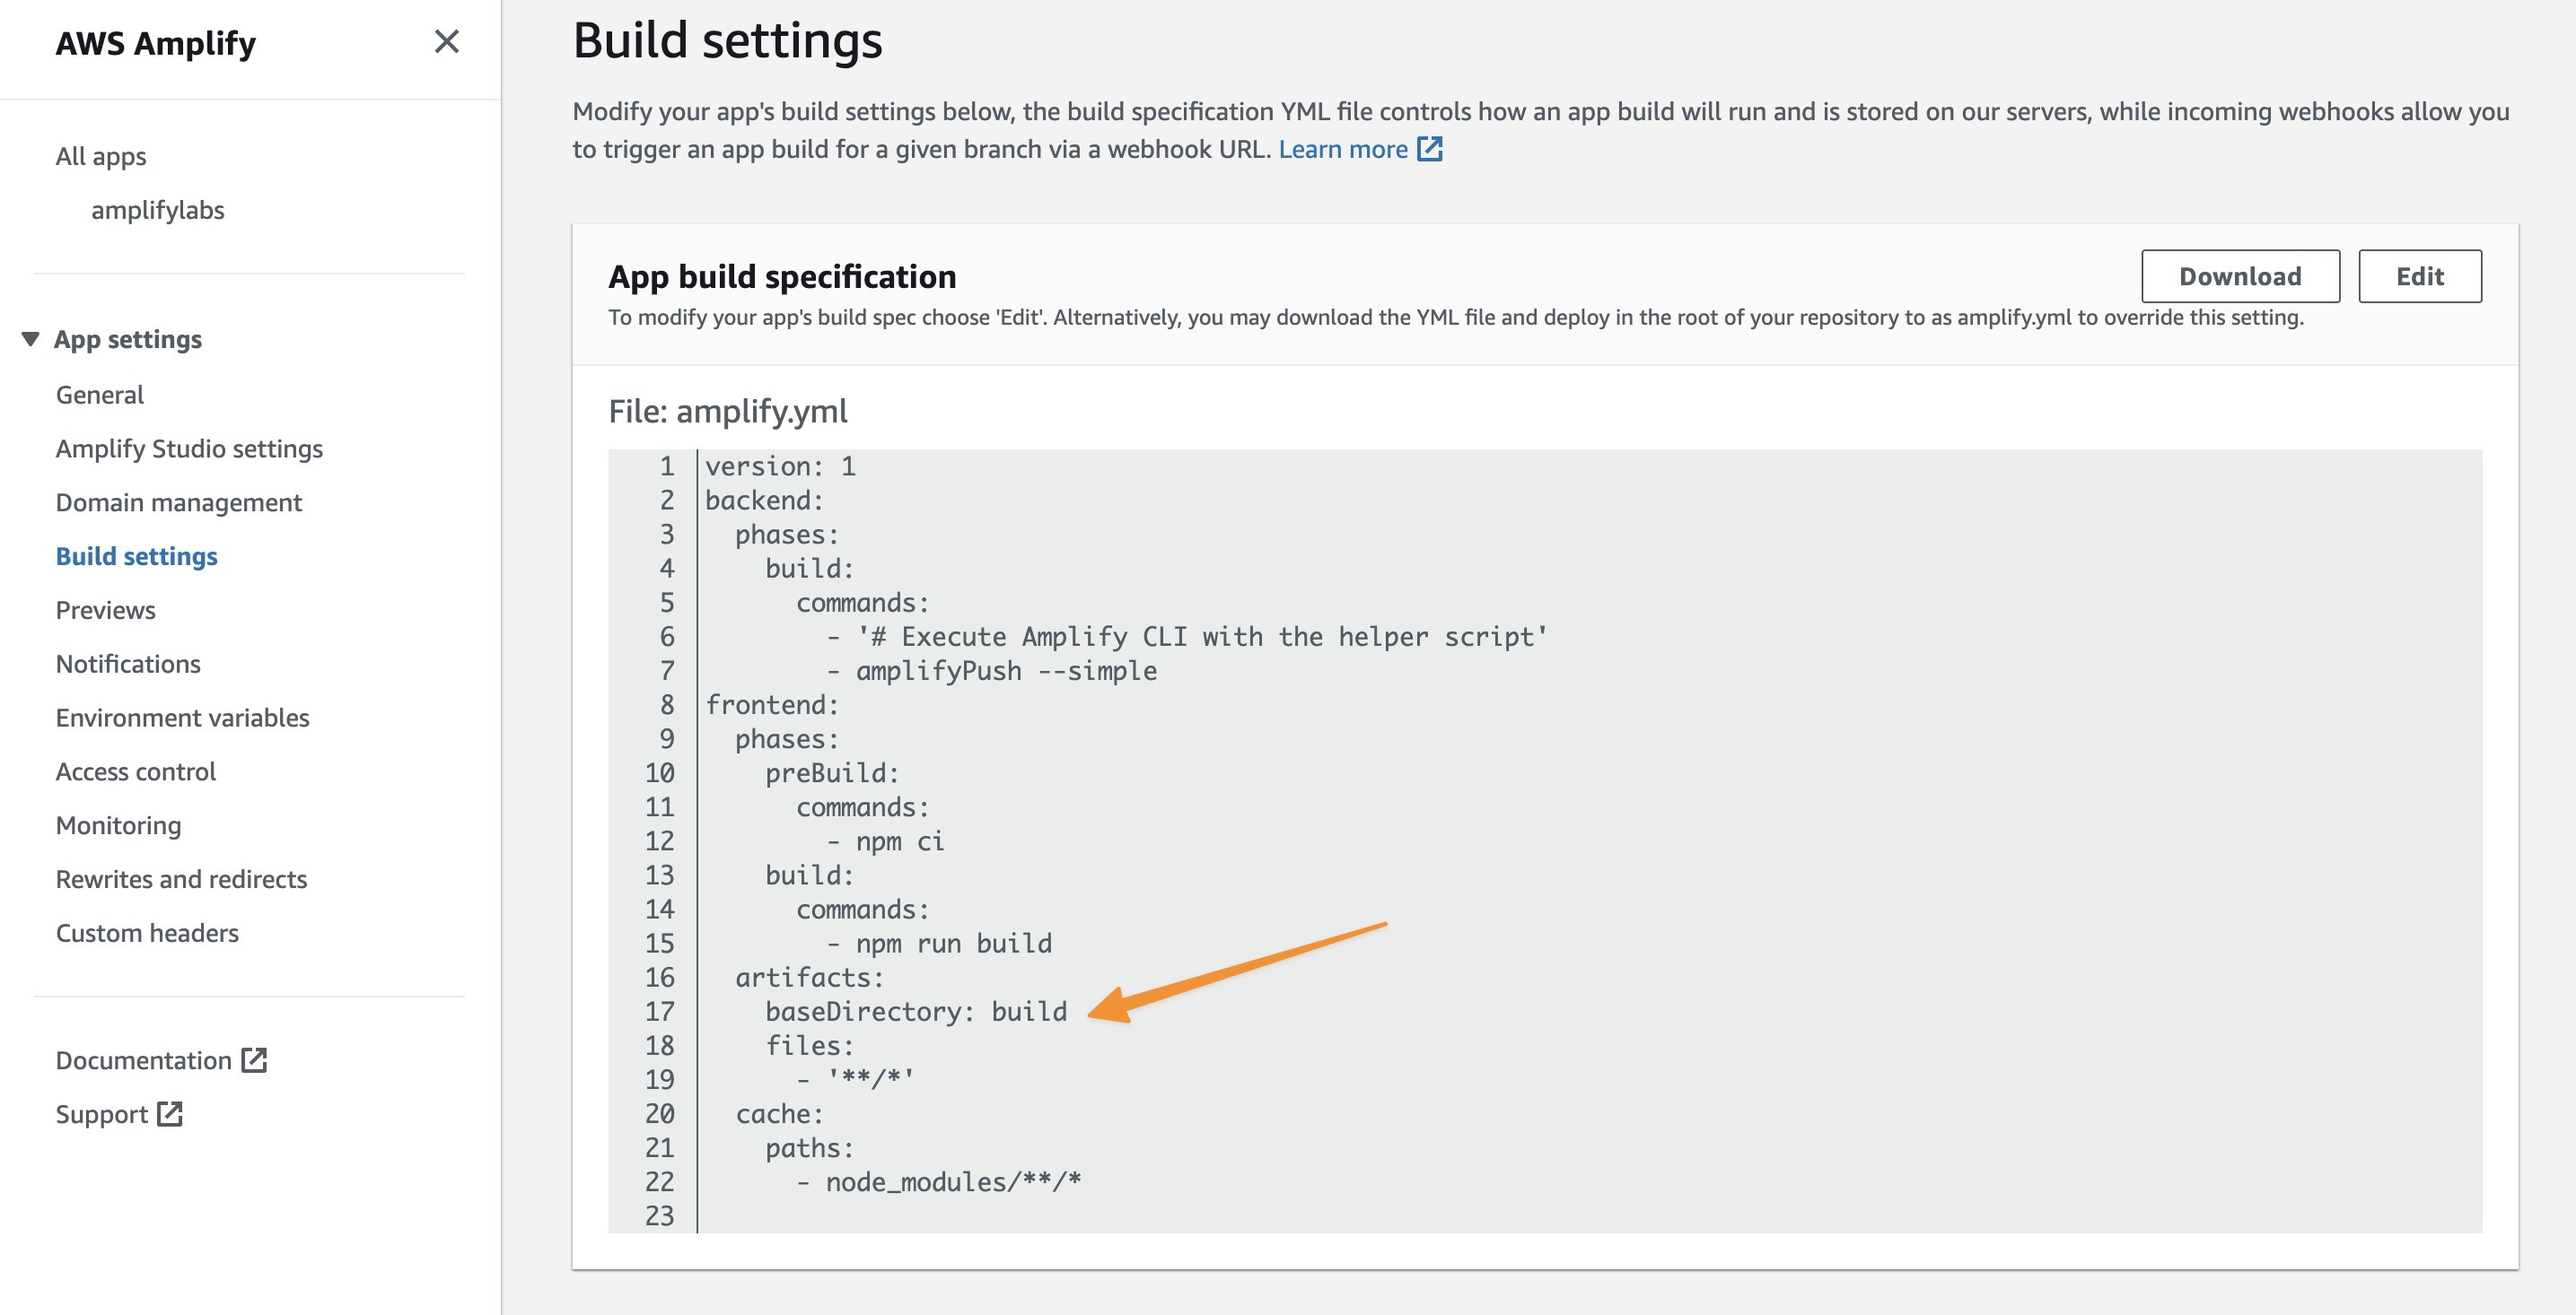
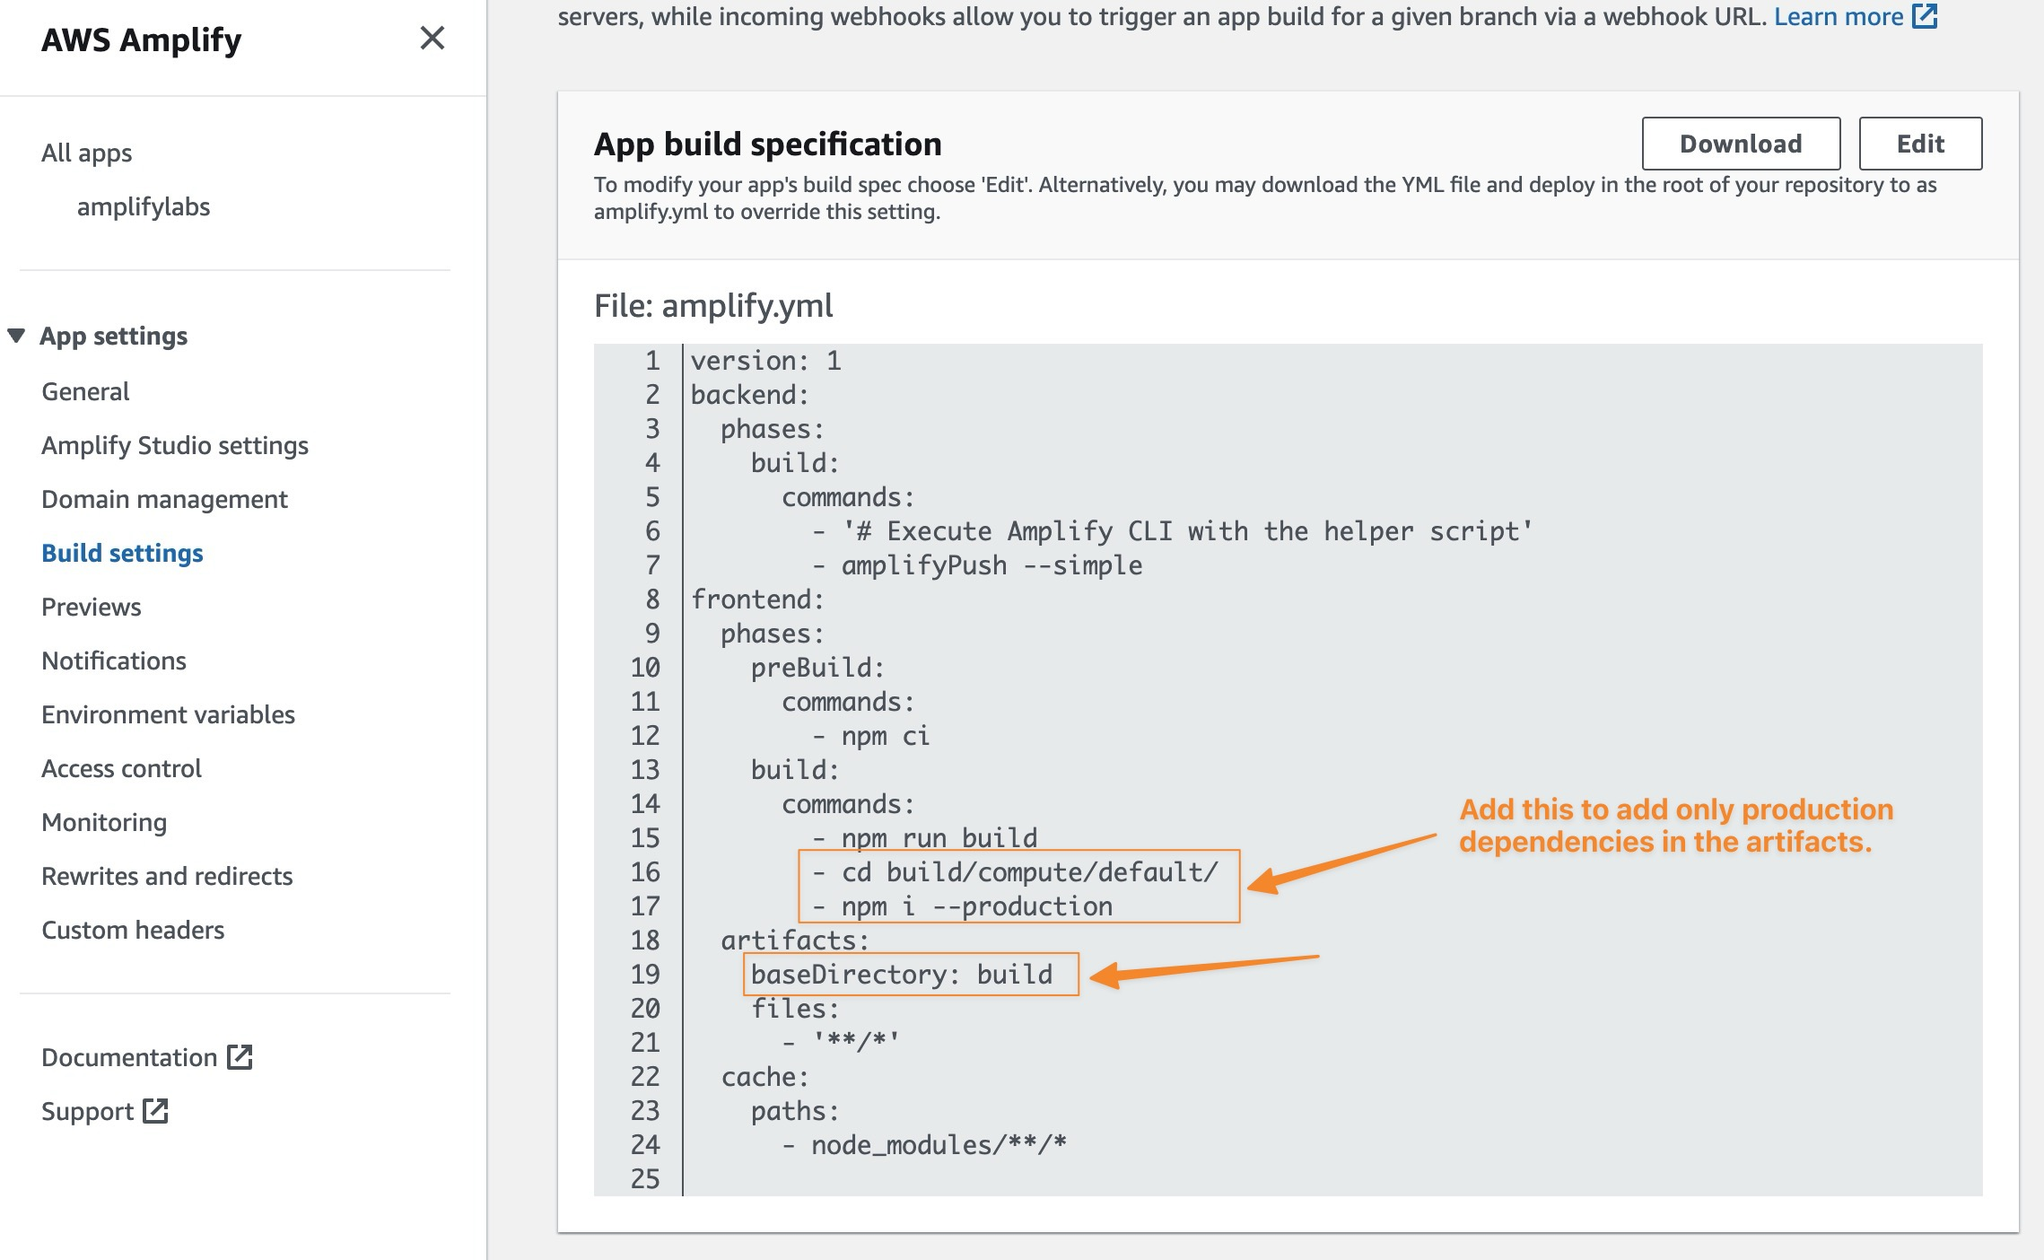
Update Amplify adapter with new options and  possible fix to artifacts size

diff --git a/index.js b/index.js
@@ -9,14 +9,26 @@ const files = fileURLToPath(new URL('./files', import.meta.url).href);
 
 /** @type {import('.').default} */
 export default function (opts = {}) {
-	const { out = 'build', precompress, envPrefix = '', polyfill = true } = opts;
+	const {
+		out = 'build',
+		precompress = false,
+		envPrefix = '',
+		polyfill = true,
+		copyDevNodeModules = false,
+		cleanPackageJson = true,
+		copyNpmrc = true
+	} = opts;
+
+	const buildername = 'amplify-adapter';
 
 	return {
-		name: 'amplify-adapter',
+		name: buildername,
 
 		async adapt(builder) {
-			const tmp = builder.getBuildDirectory('amplify-adapter');
+			const tmp = builder.getBuildDirectory(buildername);
 			const computePath = `${out}/compute/default`;
+
+			console.log(tmp);
 
 			builder.rimraf(out);
 			builder.rimraf(tmp);
@@ -72,6 +84,15 @@ export default function (opts = {}) {
 				dir: `${computePath}/server`,
 				format: 'esm',
 				sourcemap: true,
+				sourcemapPathTransform: (relativePath) => {
+					let regex = new RegExp(`((..\/)+.svelte-kit\/${buildername}\/)`, 'g');
+					relativePath = relativePath.replace(regex, './');
+
+					regex = new RegExp(`((..\/)+node_modules/)`, 'g');
+					relativePath = relativePath.replace(regex, '../node_modules');
+
+					return relativePath;
+				},
 				chunkFileNames: 'chunks/[name]-[hash].js'
 			});
 
@@ -126,9 +147,21 @@ export default function (opts = {}) {
 				writeFileSync(`${computePath}/shims.js`, '', 'utf-8');
 			}
 
-			builder.copy('node_modules', `${computePath}/node_modules`, {});
+			if (copyDevNodeModules) {
+				builder.copy('node_modules', `${computePath}/node_modules`, {});
+			}
+			if (copyNpmrc) {
+				builder.copy('.npmrc', `${computePath}/.npmrc`, {});
+			}
 
-			builder.copy('package.json', `${computePath}/package.json`, {});
+			if (cleanPackageJson) {
+				const packageJson = JSON.parse(readFileSync('package.json', 'utf8'));
+				delete packageJson.devDependencies;
+				delete packageJson.scripts;
+				writeFileSync(`${computePath}/package.json`, JSON.stringify(packageJson, null, 2), 'utf-8');
+			} else {
+				builder.copy('package.json', `${computePath}/package.json`, {});
+			}
 		}
 	};
 }

diff --git a/index.d.ts b/index.d.ts
@@ -6,10 +6,36 @@ declare global {
 }
 
 interface AdapterOptions {
+	/**
+	 * Default: 'build'
+	 */
 	out?: string;
+	/**
+	 * Default: false
+	 */
 	precompress?: boolean;
 	envPrefix?: string;
+	/**
+	 * Default: true
+	 */
 	polyfill?: boolean;
+	/**
+	 * Default: false
+	 * Copy the node_modules folder to the output directory
+	 * including all devDependencies and dependencies
+	 */
+	copyDevNodeModules?: boolean;
+	/**
+	 * Default: true
+	 * If true, devDependencies and scripts are removed
+	 * from package.json in the output directory
+	 */
+	cleanPackageJson?: boolean;
+	/**
+	 * Default: true
+	 * If true, the .npmrc file is copied to the output directory
+	 */
+	copyNpmrc?: boolean;
 }
 
 export default function plugin(options?: AdapterOptions): Adapter;

diff --git a/README.md b/README.md
@@ -4,6 +4,10 @@
 
 Este paquete se creó para adaptar el paquete @sveltejs/node-adapter para su uso con CI/CD en AWS Amplify + SSR. Este paquete incluye los siguientes cambios:
 
+Limitations:
+
+- Artifacts size limit: 200 MB
+
 ## Video tutorial
 
 [![SvelteKit + Amplify CI/CD](./readme_assets/video.jpg)](https://youtu.be/wzA5w3Y67iI)
@@ -29,7 +33,12 @@ import adapter from 'amplify-adapter';
 
 ![Connect branch](./readme_assets/connect_branch.jpg)
 
-- Go to `App settings > Build settings > App build specification` and set Artifact folder to `build` (default adapter output folder).
+- Go to `App settings > Build settings > App build specification` and set Artifact folder to `build` (default adapter output folder) and add this lines to `frontend -> build` phase:
+
+```yaml
+- cd build/compute/default/
+- npm i --production
+```
 
 ![App build specification](./readme_assets/buildsettings_1.jpg)
 
